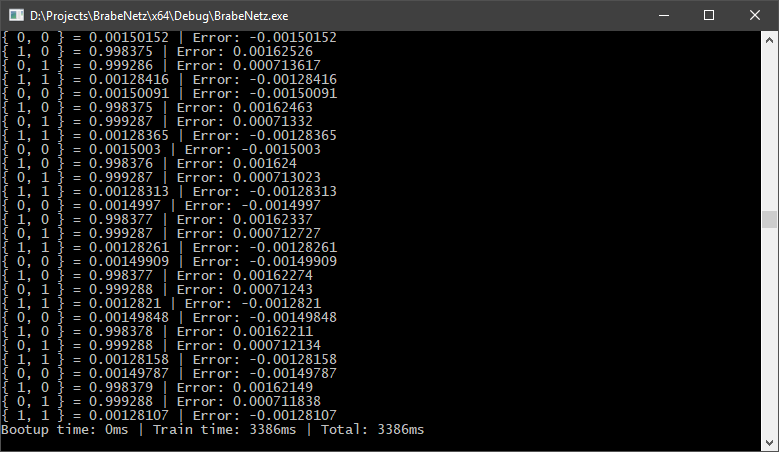
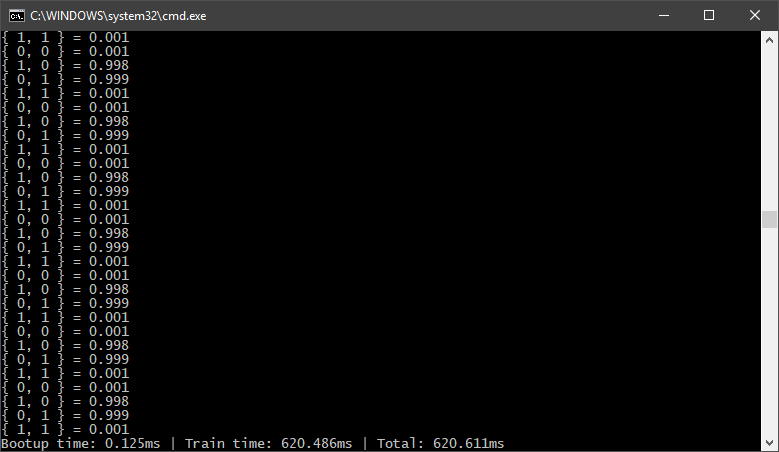
:fire: Update screenshots to show printf instead of cout

Changed region(s): [[0.0, 0.0, 0.647, 0.9912]]

diff --git a/README.md b/README.md
@@ -27,7 +27,7 @@ Be sure to [read the network description](DESCRIPTION.md)
 </p>
 <p align="center">
    <img align="center" src="Images/results.png" alt="Actual trained network prediction output">
-   <p align="center"><b>Actual prediction</b> of the XOR trained network (<code>cout</code> is very slow, hence 3.3s)</p>
+   <p align="center"><b>Actual prediction</b> of the XOR trained network (<code>printf</code> is slow, hence 620ms)</p>
 </p>
 <p align="center">
    <img align="center" src="Images/cpuload.png" alt="Using 24/24 cores in Taskmanager">
